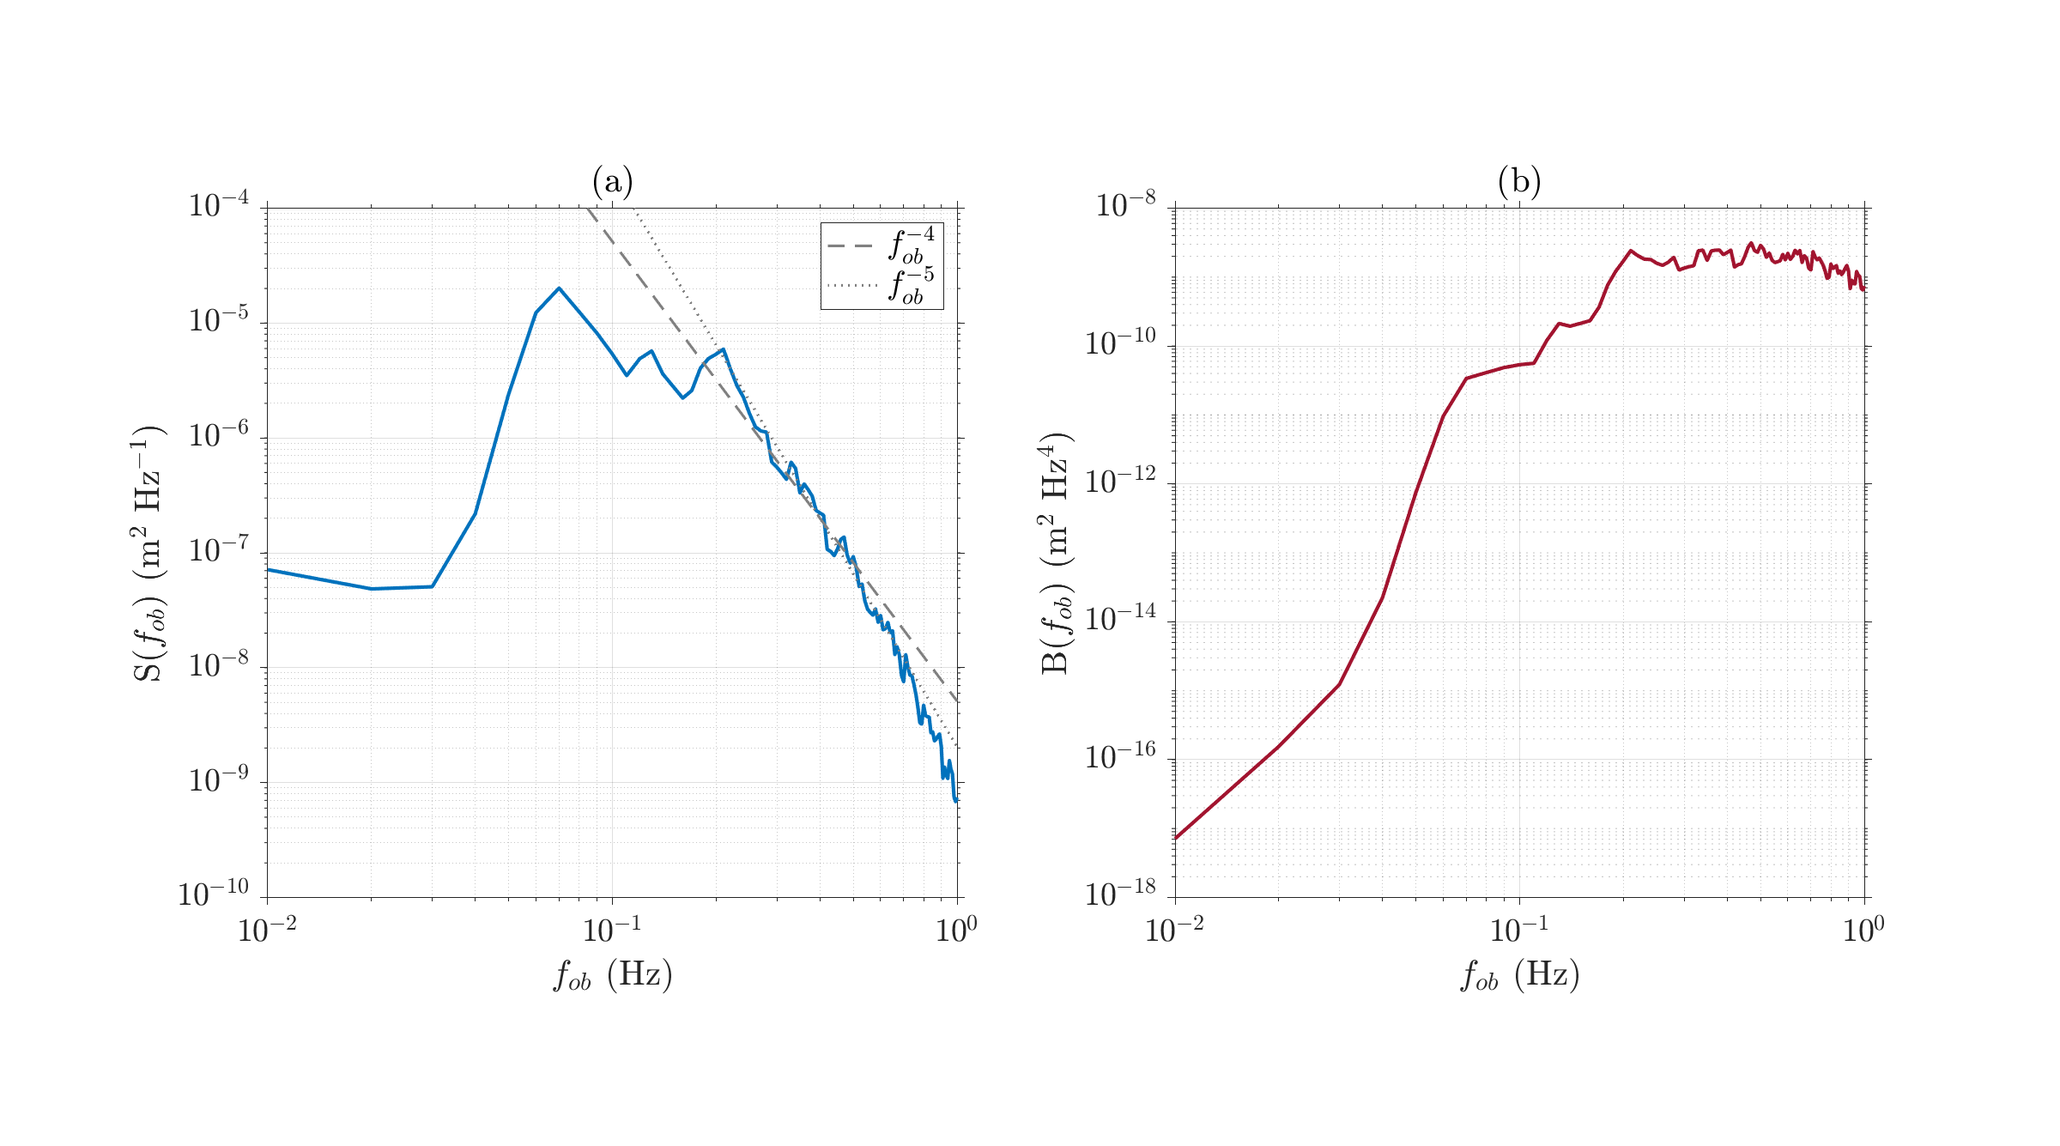
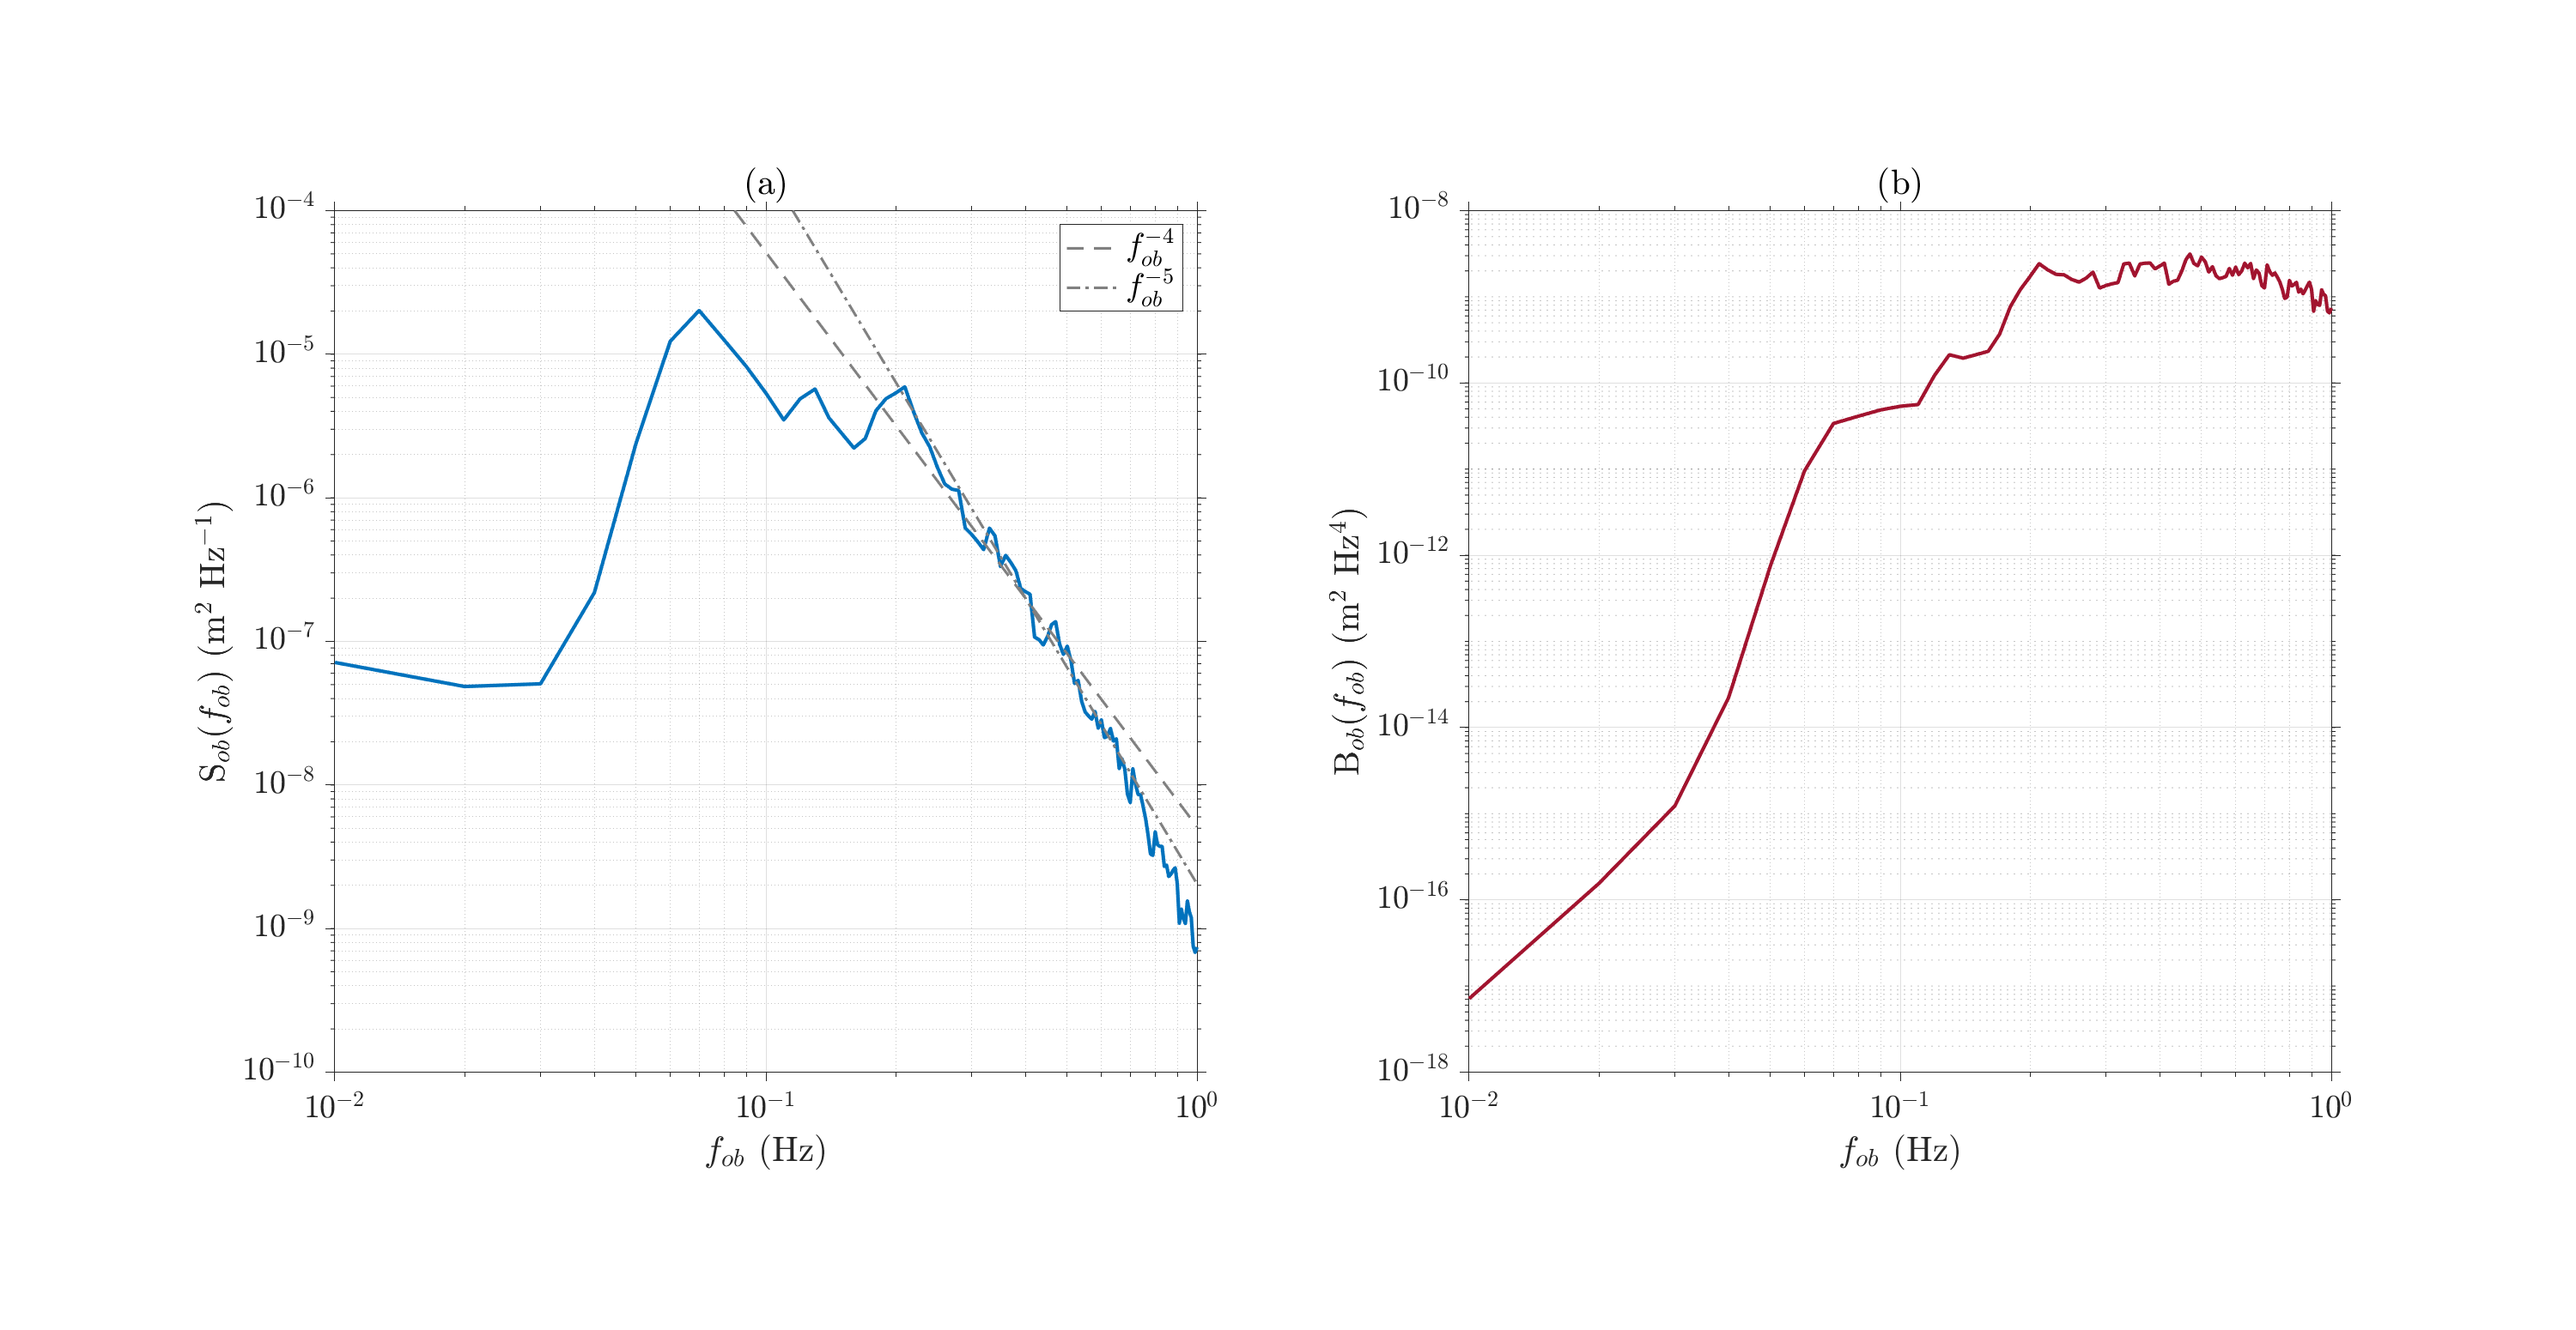
Update caption and yaxis labels.

diff --git a/src/fig6.m b/src/fig6.m
@@ -2,9 +2,10 @@
 % Luke Colosi | lcolosi@ucsd.edu | August 20th, 2022
 
 %-------------------------------- Caption --------------------------------%
-% Observed omni-directional (a) and saturation (b) wave spectra 
-% computed from measurement collected aboard the Stokes wave glider's 
-% during the large box trajectory (07:57:22 to 08:42:02 September 10, 2020). 
+% Observed omni-directional (a) and saturation (b) wave spectra computed
+% from the directional wave spectrum in Figure~\ref{f5}. The dashed and
+% dot-dashed lines a have $f_{ob}^{-4}$ and $f_{ob}^{-5}$ spectral slopes
+% respectively.
 %-------------------------------------------------------------------------%
 
 clc, clear, close all;
@@ -101,7 +102,7 @@ fontsize = 18;
 itime = 30; 
 
 % Set variables 
-fi = 4*10^-1; % nov_s.fst(itime);
+fi = 4*10^-1;                                                               % nov_s.fst(itime);
 Si = 2*10^-7;
 
 % Compute f^-5 slope lines
@@ -109,7 +110,7 @@ slope4 = Si*((nov_s.f_ob/fi).^(-4));
 slope5 = Si*((nov_s.f_ob/fi).^(-5));
 
 % Create figure
-figure('units','normalized','outerposition',[0 0 0.8 0.8])
+figure('units','normalized','outerposition',[0 0 1 1])
 
 %------------- Subplot 1 -------------%
 subplot(1,2,1);
@@ -119,12 +120,12 @@ loglog(nov_s.f_ob, nov_s.spectrogram_omni_f_ob(:,itime), '-', 'LineWidth', 2, 'C
 
 hold on 
     pc1 = loglog(nov_s.f_ob,slope4, '--', 'LineWidth', 1.5, 'Color', [0.5 0.5 0.5]);
-    pc2 = loglog(nov_s.f_ob,slope5, ':', 'LineWidth', 1.5, 'Color', [0.5 0.5 0.5]);
+    pc2 = loglog(nov_s.f_ob,slope5, '-.', 'LineWidth', 1.5, 'Color', [0.5 0.5 0.5]);
 hold off
 
 % Set figure Attributes
 title('(a)')
-ylabel('S($f_{ob}$)  (m$^2$ Hz$^{-1}$)','Interpreter','Latex')
+ylabel('S$_{ob}(f_{ob})$  (m$^2$ Hz$^{-1}$)','Interpreter','Latex')
 xlabel('$f_{ob}$ (Hz)','Interpreter','Latex')
 xlim([10^-2 10^0])
 ylim([10^-10 10^-4])
@@ -145,7 +146,7 @@ loglog(nov_s.f_ob, nov_s.sat_spectrogram_omni_f_ob(:,itime), '-', 'LineWidth', 2
 
 % Set figure Attributes
 title('(b)')
-ylabel('B($f_{ob}$) (m$^2$ Hz$^{4}$)','Interpreter','Latex')
+ylabel('B$_{ob}(f_{ob})$ (m$^2$ Hz$^{4}$)','Interpreter','Latex')
 xlabel('$f_{ob}$ (Hz)','Interpreter','Latex')
 xlim([10^-2 10^0])
 set(gca,'FontSize',fontsize)
